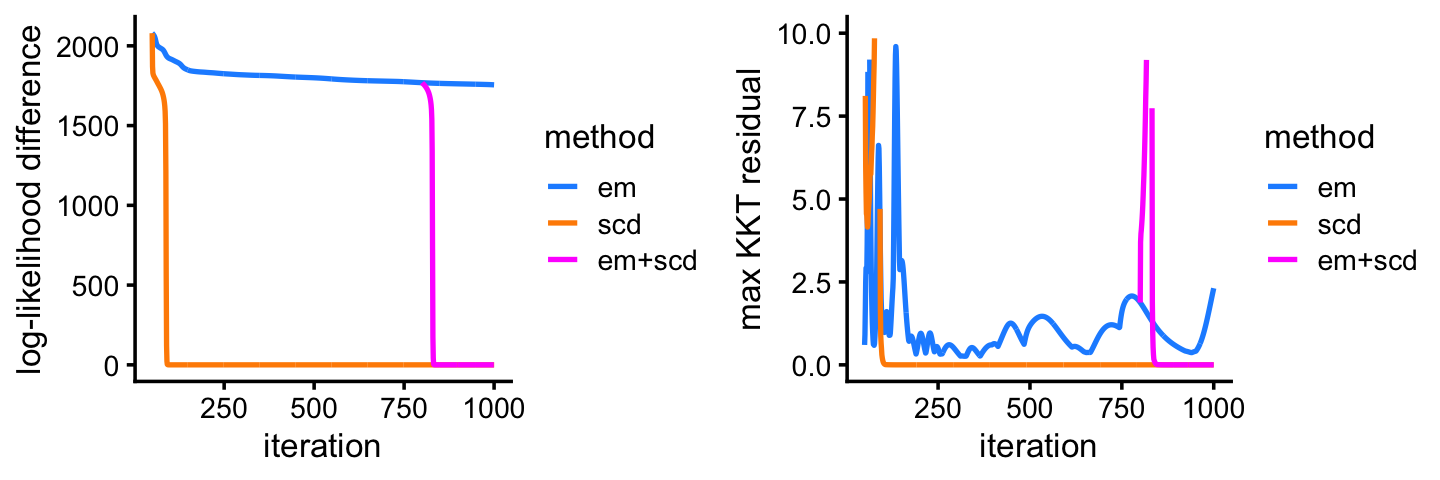
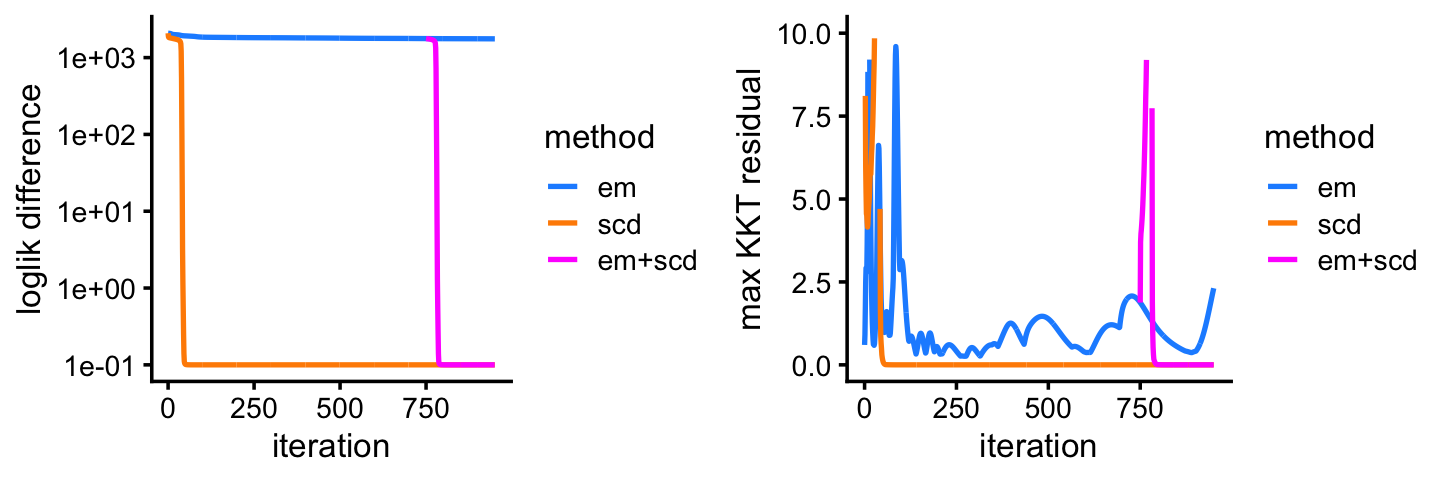
Added LDA results for second "smallsim" example.

diff --git a/docs/smallsim.html b/docs/smallsim.html
@@ -323,7 +323,7 @@ $(document).ready(function () {
 <div class="tab-content">
 <div id="summary" class="tab-pane fade in active">
 <p>
-<strong>Last updated:</strong> 2021-03-11
+<strong>Last updated:</strong> 2021-03-12
 </p>
 <p>
 <strong>Checks:</strong> <span class="glyphicon glyphicon-ok text-success" aria-hidden="true"></span> 7 <span class="glyphicon glyphicon-exclamation-sign text-danger" aria-hidden="true"></span> 0
@@ -414,16 +414,16 @@ This reproducible <a href="http://rmarkdown.rstudio.com">R Markdown</a> analysis
 <div class="panel panel-default">
 <div class="panel-heading">
 <p class="panel-title">
-<a data-toggle="collapse" data-parent="#workflowr-checks" href="#strongRepositoryversionstrongahrefhttpsgithubcomstephenslabfastTopicsexperimentstree7f0bc8946940015b75c90b6e70d8ae4ec21262a7targetblank7f0bc89a"> <span class="glyphicon glyphicon-ok text-success" aria-hidden="true"></span> <strong>Repository version:</strong> <a href="https://github.com/stephenslab/fastTopics-experiments/tree/7f0bc8946940015b75c90b6e70d8ae4ec21262a7" target="_blank">7f0bc89</a> </a>
+<a data-toggle="collapse" data-parent="#workflowr-checks" href="#strongRepositoryversionstrongahrefhttpsgithubcomstephenslabfastTopicsexperimentstree4d2058f6a8ef0526fe5c26c0dc11dbf5a3bd2fc1targetblank4d2058fa"> <span class="glyphicon glyphicon-ok text-success" aria-hidden="true"></span> <strong>Repository version:</strong> <a href="https://github.com/stephenslab/fastTopics-experiments/tree/4d2058f6a8ef0526fe5c26c0dc11dbf5a3bd2fc1" target="_blank">4d2058f</a> </a>
 </p>
 </div>
[2 lines of base64/hex data omitted]
 <div class="panel-body">
 <p>
 Great! You are using Git for version control. Tracking code development and connecting the code version to the results is critical for reproducibility.
 </p>
 <p>
-The results in this page were generated with repository version <a href="https://github.com/stephenslab/fastTopics-experiments/tree/7f0bc8946940015b75c90b6e70d8ae4ec21262a7" target="_blank">7f0bc89</a>. See the <em>Past versions</em> tab to see a history of the changes made to the R Markdown and HTML files.
+The results in this page were generated with repository version <a href="https://github.com/stephenslab/fastTopics-experiments/tree/4d2058f6a8ef0526fe5c26c0dc11dbf5a3bd2fc1" target="_blank">4d2058f</a>. See the <em>Past versions</em> tab to see a history of the changes made to the R Markdown and HTML files.
 </p>
 <p>
 Note that you need to be careful to ensure that all relevant files for the analysis have been committed to Git prior to generating the results (you can use <code>wflow_publish</code> or <code>wflow_git_commit</code>). workflowr only checks the R Markdown file, but you know if there are other scripts or data files that it depends on. Below is the status of the Git repository when the results were generated:
@@ -475,6 +475,74 @@ Message
 </tr>
 </thead>
 <tbody>
+<tr>
+<td>
+Rmd
+</td>
+<td>
+<a href="https://github.com/stephenslab/fastTopics-experiments/blob/4d2058f6a8ef0526fe5c26c0dc11dbf5a3bd2fc1/analysis/smallsim.Rmd" target="_blank">4d2058f</a>
+</td>
+<td>
+Peter Carbonetto
+</td>
+<td>
+2021-03-12
+</td>
+<td>
+workflowr::wflow_publish(“smallsim.Rmd”)
+</td>
+</tr>
+<tr>
+<td>
+Rmd
+</td>
+<td>
+<a href="https://github.com/stephenslab/fastTopics-experiments/blob/74d9a5ffd16a1afbf894d4dc2c9fe3cabd875bdc/analysis/smallsim.Rmd" target="_blank">74d9a5f</a>
+</td>
+<td>
+Peter Carbonetto
+</td>
+<td>
+2021-03-11
+</td>
+<td>
+Added code for running LDA on second simulated data set in smallsim.Rmd.
+</td>
+</tr>
+<tr>
+<td>
+Rmd
+</td>
+<td>
+<a href="https://github.com/stephenslab/fastTopics-experiments/blob/1efb08952d9a592b30bbf50e0c7725fb90888b55/analysis/smallsim.Rmd" target="_blank">1efb089</a>
+</td>
+<td>
+Peter Carbonetto
+</td>
+<td>
+2021-03-11
+</td>
+<td>
+Made improvements to plots in smallsim demo.
+</td>
+</tr>
+<tr>
+<td>
+html
+</td>
+<td>
+<a href="https://rawcdn.githack.com/stephenslab/fastTopics-experiments/be1f9a4205946b0e05e0d7cbd0ca490db114a56d/docs/smallsim.html" target="_blank">be1f9a4</a>
+</td>
+<td>
+Peter Carbonetto
+</td>
+<td>
+2021-03-11
+</td>
+<td>
+Added LDA fits to first simulated data set in smallsim demo.
+</td>
+</tr>
 <tr>
 <td>
 Rmd
@@ -1314,6 +1382,17 @@ Date
 <tbody>
 <tr>
 <td>
+<a href="https://github.com/stephenslab/fastTopics-experiments/blob/be1f9a4205946b0e05e0d7cbd0ca490db114a56d/docs/figure/smallsim.Rmd/plot-progress-1-1.png" target="_blank">be1f9a4</a>
+</td>
+<td>
+Peter Carbonetto
+</td>
+<td>
+2021-03-11
+</td>
+</tr>
+<tr>
+<td>
 <a href="https://github.com/stephenslab/fastTopics-experiments/blob/daf189cfa42de348025de99c8110730cb8a9d9de/docs/figure/smallsim.Rmd/plot-progress-1-1.png" target="_blank">daf189c</a>
 </td>
 <td>
@@ -1454,6 +1533,17 @@ Date
 <tbody>
 <tr>
 <td>
+<a href="https://github.com/stephenslab/fastTopics-experiments/blob/be1f9a4205946b0e05e0d7cbd0ca490db114a56d/docs/figure/smallsim.Rmd/loadings-scatterplot-1-1.png" target="_blank">be1f9a4</a>
+</td>
+<td>
+Peter Carbonetto
+</td>
+<td>
+2021-03-11
+</td>
+</tr>
+<tr>
+<td>
 <a href="https://github.com/stephenslab/fastTopics-experiments/blob/47ed42528e47fe3c678d410d38d0d9785d0ae054/docs/figure/smallsim.Rmd/loadings-scatterplot-1-1.png" target="_blank">47ed425</a>
 </td>
 <td>
@@ -1500,24 +1590,61 @@ Peter Carbonetto
 </table>
 </div>
 </div>
-<p>Next, we turn to the problem of fitting an LDA model to the same data. Although the LDA fitting problem is different—we are now fitting a (approximate) posterior distribution, and so the estimates are approximate posterior means rather than MELs—initializing the LDA fit using the MLEs greatly improves the LDA model fitting, as we will see here.</p>
+<p>Next, we turn to the problem of fitting an LDA model to the same data.</p>
 <p>We perform 400 iterations of variational EM, initializing the LDA model fits using the MLEs computed above.</p>
 <pre class="r"><code>lda0 &lt;- run_lda(X,fit0,numiter = 400)
 lda1 &lt;- run_lda(X,fit1,numiter = 400)
 lda2 &lt;- run_lda(X,fit2,numiter = 400)</code></pre>
-<p>Even after 400 iterations, variational EM without a good initialization does not approach the quality of the LDA model fits initialized using the EM and SCD estimates.</p>
+<p>Although the LDA fitting problem is different—we are now fitting a (approximate) posterior distribution, and so the estimates are approximate posterior means rather than MLE—initializing the LDA fit using the MLEs greatly improves the LDA model fitting, as we will see from this next plot: even after 400 iterations, variational EM without a good initialization does not approach the quality of the LDA model fits initialized using the EM and SCD estimates.</p>
 <pre class="r"><code>pdat &lt;- rbind(data.frame(iter = 1:400,elbo = lda0@logLiks,init = &quot;none&quot;),
               data.frame(iter = 1:400,elbo = lda1@logLiks,init = &quot;em&quot;),
               data.frame(iter = 1:400,elbo = lda2@logLiks,init = &quot;scd&quot;))
 pdat &lt;- transform(pdat,elbo = max(elbo) - elbo + 0.1)
-p5 &lt;- ggplot(pdat,aes(x = iter,y = elbo,color = init)) +
-             geom_line(size = 0.75) +
-             scale_y_continuous(trans = &quot;log10&quot;) +
-         scale_color_manual(values=c(&quot;darkblue&quot;,&quot;dodgerblue&quot;,&quot;darkorange&quot;)) +
-             labs(x = &quot;iteration&quot;,y = &quot;ELBO difference&quot;) +
-             theme_cowplot(font_size = 10)
+p5&lt;-ggplot(pdat,aes(x = iter,y = elbo,color = init)) +
+           geom_line(size = 0.75) +
+           scale_y_continuous(trans = &quot;log10&quot;) +
+           scale_color_manual(values=c(&quot;darkblue&quot;,&quot;dodgerblue&quot;,&quot;darkorange&quot;)) +
+           labs(x = &quot;iteration&quot;,y = &quot;ELBO difference&quot;) +
+           theme_cowplot(font_size = 10)
 print(p5)</code></pre>
-<p><img src="figure/smallsim.Rmd/plot-progress-lda-1-1.png" width="300" style="display: block; margin: auto;" /></p>
+<p><img src="figure/smallsim.Rmd/plot-progress-lda-1-1.png" width="390" style="display: block; margin: auto;" /></p>
+<p>
+<button type="button" class="btn btn-default btn-xs btn-workflowr btn-workflowr-fig" data-toggle="collapse" data-target="#fig-plot-progress-lda-1-1">
+Past versions of plot-progress-lda-1-1.png
+</button>
+</p>
+<div id="fig-plot-progress-lda-1-1" class="collapse">
+<div class="table-responsive">
+<table class="table table-condensed table-hover">
+<thead>
+<tr>
+<th>
+Version
+</th>
+<th>
+Author
+</th>
+<th>
+Date
+</th>
+</tr>
+</thead>
+<tbody>
+<tr>
+<td>
+<a href="https://github.com/stephenslab/fastTopics-experiments/blob/be1f9a4205946b0e05e0d7cbd0ca490db114a56d/docs/figure/smallsim.Rmd/plot-progress-lda-1-1.png" target="_blank">be1f9a4</a>
+</td>
+<td>
+Peter Carbonetto
+</td>
+<td>
+2021-03-11
+</td>
+</tr>
+</tbody>
+</table>
+</div>
+</div>
 <p>Next we will see an example in which EM updates fail to make reasonable progress.</p>
 </div>
 <div id="correlated-topics-scenario" class="section level2">
@@ -1530,13 +1657,8 @@ L &lt;- simulate_loadings(n,k,S)
 X &lt;- simulate_multinom_counts(L,F,s)
 X &lt;- X[,colSums(X &gt; 0) &gt; 0]</code></pre>
 <p>Compare this Structure plot to the one above—there is more mixing of topics 5 and 6:</p>
-<pre class="r"><code>y &lt;- apply(L,1,which.max)
-y &lt;- rank(y,ties.method = &quot;random&quot;)
-y &lt;- qqnorm(y,plot.it = FALSE)$x
-fit &lt;- list(L = L)
-class(fit) &lt;- c(&quot;multinom_topic_model_fit&quot;,&quot;list&quot;)
-structure_plot(fit,topics = 1:6,colors = topic_colors,perplexity = 30,
-               Y_init = matrix(y),verbose = FALSE)</code></pre>
+<pre class="r"><code>p6 &lt;- simdata_structure_plot(L,topic_colors)
+print(p6)</code></pre>
 <p><img src="figure/smallsim.Rmd/structure-plot-2-1.png" width="720" style="display: block; margin: auto;" /></p>
 <p>
 <button type="button" class="btn btn-default btn-xs btn-workflowr btn-workflowr-fig" data-toggle="collapse" data-target="#fig-structure-plot-2-1">
@@ -1598,20 +1720,16 @@ Peter Carbonetto
 </div>
 </div>
 <p>As before, we run the EM and SCD updates to fit the multinomial topic model, with a twist that we perform another round of SCD updates after running the EM updates. This will be explained shortly.</p>
-<pre class="r"><code>fit0 &lt;- fit_poisson_nmf(X,k,numiter = 50,method = &quot;em&quot;,
-                        control = list(extrapolate = FALSE,numiter = 4))
-fit1 &lt;- fit_poisson_nmf(X,fit0 = fit0,numiter = 750,method = &quot;em&quot;,
-                        control = list(extrapolate = FALSE,numiter = 4))
-fit2 &lt;- fit_poisson_nmf(X,fit0 = fit0,numiter = 950,method = &quot;scd&quot;,
-                        control = list(extrapolate = FALSE,numiter = 4))
-fit3 &lt;- fit_poisson_nmf(X,fit0 = fit1,numiter = 200,method = &quot;scd&quot;,
-                        control = list(extrapolate = FALSE,numiter = 4))
-fit1 &lt;- fit_poisson_nmf(X,fit0 = fit1,numiter = 200,method = &quot;em&quot;,
-                        control = list(extrapolate = FALSE,numiter = 4))
+<pre class="r"><code>fit0 &lt;- fit_poisson_nmf(X,k,numiter = 50,method = &quot;em&quot;,control = control)
+fit1 &lt;- fit_poisson_nmf(X,fit0=fit0,numiter=750,method=&quot;em&quot;,control=control)
+fit2 &lt;- fit_poisson_nmf(X,fit0=fit0,numiter=950,method=&quot;scd&quot;,control=control)
+fit3 &lt;- fit_poisson_nmf(X,fit0=fit1,numiter=200,method=&quot;scd&quot;,control=control)
+fit1 &lt;- fit_poisson_nmf(X,fit0=fit1,numiter=200,method=&quot;em&quot;,control=control)
+fit0 &lt;- poisson2multinom(fit0)
 fit1 &lt;- poisson2multinom(fit1)
 fit2 &lt;- poisson2multinom(fit2)
 fit3 &lt;- poisson2multinom(fit3)</code></pre>
-<p>In this second example, after initially making good progress, the EM estimates remain very far from the solution achieved by SCD even after hundreds of EM updates. This isn’t a case where the EM updates have settled on a different local solution—the SCD updates quickly “rescue” the EM estimates.</p>
+<p>In this second example, after initially making good progress, the EM estimates remain far from the solution achieved by SCD even after hundreds of EM updates. This isn’t a case where the EM updates have settled on a different local solution—the SCD updates quickly “rescue” the EM estimates.</p>
 <pre class="r"><code>pdat &lt;- rbind(data.frame(iter   = 1:1000,
                          loglik = fit1$progress$loglik.multinom,
                          res    = fit1$progress$res,
@@ -1624,20 +1742,23 @@ fit3 &lt;- poisson2multinom(fit3)</code></pre>
                          loglik = fit3$progress[800:1000,&quot;loglik.multinom&quot;],
                          res    = fit3$progress[800:1000,&quot;res&quot;],
                          method = &quot;em+scd&quot;))
-pdat &lt;- transform(pdat,loglik = max(loglik) - loglik)
 pdat &lt;- subset(pdat,iter &gt;= 50)
-p3 &lt;- ggplot(pdat,aes(x = iter,y = loglik,color = method)) +
+pdat &lt;- transform(pdat,
+                  iter   = iter - 50,
+                  loglik = max(loglik) - loglik + 0.1)
+p7 &lt;- ggplot(pdat,aes(x = iter,y = loglik,color = method)) +
   geom_line(size = 0.75) +
+  scale_y_continuous(trans = &quot;log10&quot;) +
   scale_color_manual(values = c(&quot;dodgerblue&quot;,&quot;darkorange&quot;,&quot;magenta&quot;)) +
-  labs(x = &quot;iteration&quot;,y = &quot;log-likelihood difference&quot;) +
+  labs(x = &quot;iteration&quot;,y = &quot;loglik difference&quot;) +
   theme_cowplot(font_size = 10)
-p4 &lt;- ggplot(pdat,aes(x = iter,y = res,color = method)) +
+p8 &lt;- ggplot(pdat,aes(x = iter,y = res,color = method)) +
   geom_line(size = 0.75) +
   scale_color_manual(values = c(&quot;dodgerblue&quot;,&quot;darkorange&quot;,&quot;magenta&quot;)) +
   ylim(0,10) +
   labs(x = &quot;iteration&quot;,y = &quot;max KKT residual&quot;) +
   theme_cowplot(font_size = 10)
-plot_grid(p3,p4)</code></pre>
+plot_grid(p7,p8)</code></pre>
 <p><img src="figure/smallsim.Rmd/plot-progress-2-1.png" width="720" style="display: block; margin: auto;" /></p>
 <p>
 <button type="button" class="btn btn-default btn-xs btn-workflowr btn-workflowr-fig" data-toggle="collapse" data-target="#fig-plot-progress-2-1">
@@ -1776,15 +1897,8 @@ Peter Carbonetto
 </div>
 </div>
 <p>This large difference in likelihood is not due to a trivial difference in solution—for example, there are many large differences in the topic proportion estimates:</p>
-<pre class="r"><code>pdat &lt;- data.frame(x = as.vector(fit1$L),
-                   y = as.vector(fit2$L),
-                   k = factor(rep(1:6,each = 100)))
-ggplot(pdat,aes(x = x,y = y,fill = k)) +
-  geom_point(color = &quot;white&quot;,shape = 21,size = 1.75) +
-  geom_abline(intercept = 0,slope = 1,color = &quot;skyblue&quot;,linetype = &quot;dotted&quot;) +
-  scale_fill_manual(values = topic_colors) +
-  labs(x = &quot;em&quot;,y = &quot;scd&quot;) +
-  theme_cowplot(font_size = 10)</code></pre>
+<pre class="r"><code>p9 &lt;- loadings_scatterplot(fit1,fit2,topic_colors,&quot;em&quot;,&quot;scd&quot;)
+print(p9)</code></pre>
 <p><img src="figure/smallsim.Rmd/loadings-scatterplot-2-1.png" width="360" style="display: block; margin: auto;" /></p>
 <p>
 <button type="button" class="btn btn-default btn-xs btn-workflowr btn-workflowr-fig" data-toggle="collapse" data-target="#fig-loadings-scatterplot-2-1">
@@ -1927,7 +2041,27 @@ Peter Carbonetto
 </table>
 </div>
 </div>
-<p>These results suggest that the EM algorithm may perform poorly in settings where the topics are correlated, even if the correlations are quite modest.</p>
+<p>These results suggest that the EM algorithm may perform poorly in settings where the topics are correlated, even if the correlations are modest.</p>
+<p>Let’s see how this relates to fitting an LDA model:</p>
+<pre class="r"><code>lda0 &lt;- run_lda(X,fit0,numiter = 400)
+lda1 &lt;- run_lda(X,fit1,numiter = 400)
+lda2 &lt;- run_lda(X,fit2,numiter = 400)</code></pre>
+<p>This plot shows the improvement in the objective (the ELBO) over time:</p>
+<pre class="r"><code>pdat &lt;- rbind(data.frame(iter = 1:400,elbo = lda0@logLiks,init = &quot;none&quot;),
+              data.frame(iter = 1:400,elbo = lda1@logLiks,init = &quot;em&quot;),
+              data.frame(iter = 1:400,elbo = lda2@logLiks,init = &quot;scd&quot;))
+pdat &lt;- transform(pdat,
+                  iter = iter - 50,
+                  elbo = max(elbo) - elbo + 0.1)
+p10&lt;-ggplot(pdat,aes(x = iter,y = elbo,color = init)) +
+            geom_line(size = 0.75) +
+            scale_y_continuous(trans = &quot;log10&quot;) +
+            scale_color_manual(values=c(&quot;darkblue&quot;,&quot;dodgerblue&quot;,&quot;darkorange&quot;))+
+            labs(x = &quot;iteration&quot;,y = &quot;ELBO difference&quot;) +
+            theme_cowplot(font_size = 10)
+print(p10)</code></pre>
+<p><img src="figure/smallsim.Rmd/plot-progress-lda-2-1.png" width="390" style="display: block; margin: auto;" /></p>
+<p>In this second example, the SCD estimates provide by far the best initialization of the LDA model fit.</p>
 <br>
 <p>
 <button type="button" class="btn btn-default btn-workflowr btn-workflowr-sessioninfo" data-toggle="collapse" data-target="#workflowr-sessioninfo" style="display: block;">
